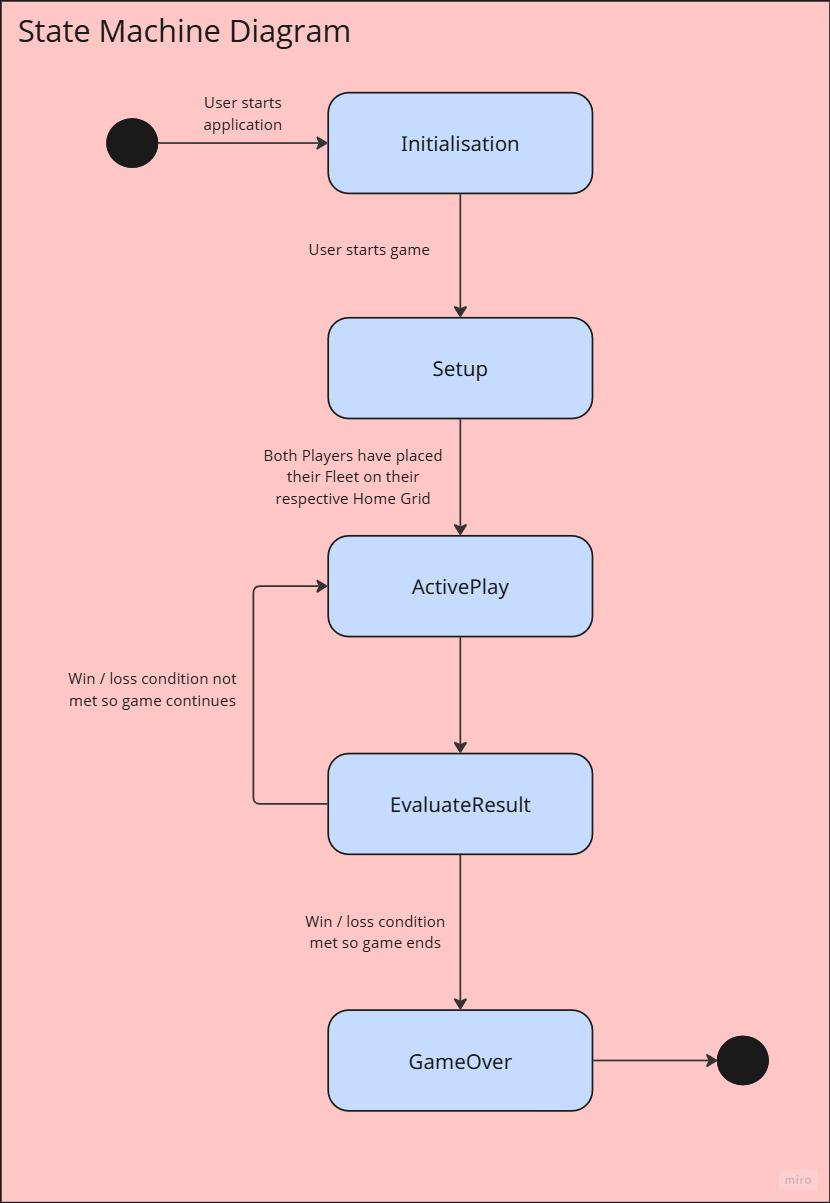
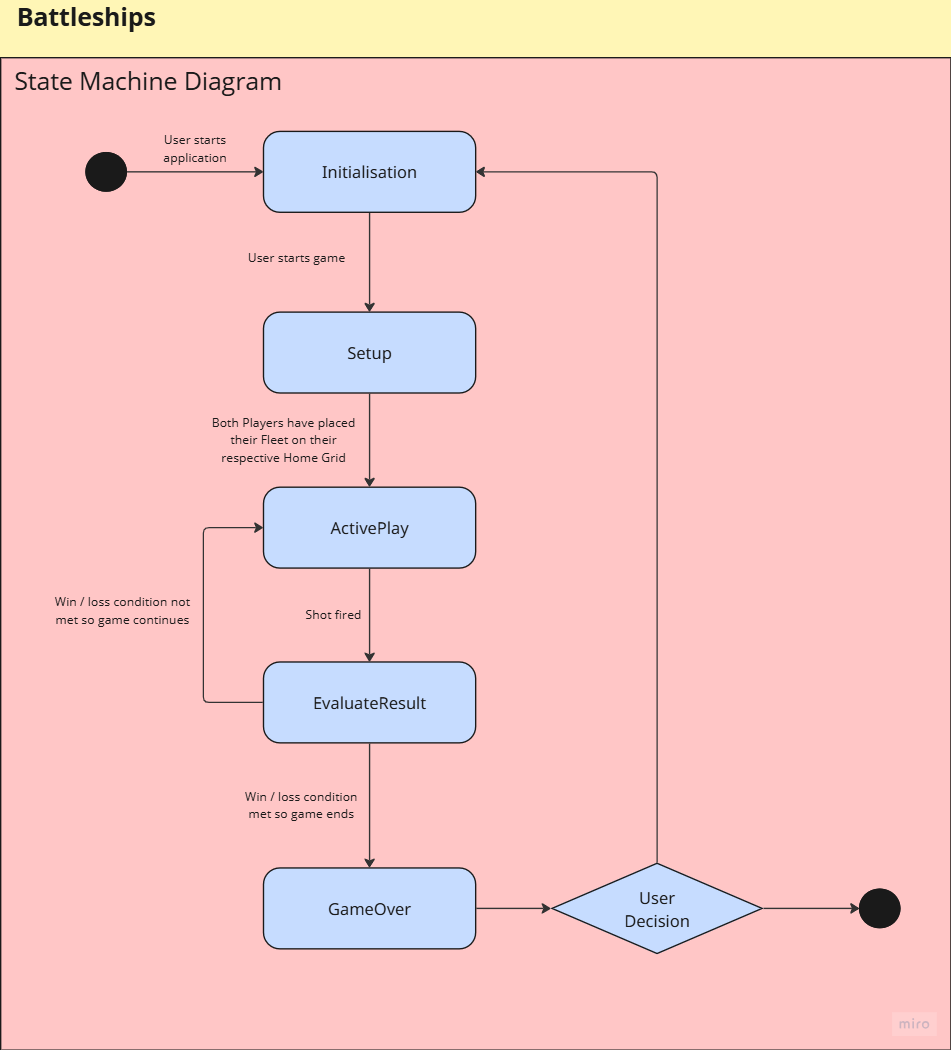
added gameOver layer, with two different outcomes: victory, or defeat. Each one has its own background and title.

diff --git a/pages/battleships_v1.html b/pages/battleships_v1.html
@@ -27,19 +27,28 @@
             <div id="initialisation_container">
                 
                 <div>
+
                     <img src="/assets/images/logos/logo.png" alt="Battleships logo" width="800px">
+
                 </div>
 
                 <div>
+
                     <select id="gameMode" name="gameMode">
+
                         <option value="" disabled selected>Choose Game Mode</option>
+
                         <option value="UvC">User vs Computer</option>
+
                     </select>
                 </div>
 
                 <div>
+
                     <button id="startGameButton">Start Game</button>
+
                 </div>
+
             </div>
             
         </div>
@@ -853,9 +862,49 @@
 
         </div>
 
-        <div id="gameOver" class="layer alignTop" >
-            <h1>GameOver</h1>
-            <button>Reset</button>
+        <div id="gameOver" class="layer alignHorizontalCentre alignVerticalMiddle" >
+            
+            <div id="gameOver_box" class="victory">
+
+                <div id="gameOver_boxBackground">
+
+                    <img src="/assets/images/logos/fleet.png" alt="Fleet" class="fleetImage victoryMarker">
+                    <img src="/assets/images/logos/fleet_destroyed.png" alt="Fleet destroyed" class="fleetImage defeatMarker">
+
+                </div>
+                
+
+                <div id="gameOver_boxForeground">
+
+                    <!-- Row 1 -->
+                    <div class="gameOver_boxForegroundRow1 span4"></div>
+
+                    <!-- Row 2 -->
+                    <div class="gameOver_boxForegroundRow2"></div>
+
+                    <div class="gameOver_boxForegroundRow2 span2">
+
+                        <div id="gameOver_boxForegroundRow2Flex">
+
+                            <img src="/assets/images/logos/victory.png" alt="victory badge" class="badge victoryMarker">
+                            <img src="/assets/images/logos/defeat.png" alt="defeated badge" class="badge defeatMarker">
+                        
+                            <button id="exitButton" class="marginTop">Exit</button>
+                            <button id="playAgainButton" class="marginTop">Play Again</button>
+
+                        </div>
+
+                    </div>
+
+                    <div class="gameOver_boxForegroundRow2"></div>
+
+                    <!-- Row 3 -->
+                    <div class="gameOver_boxForegroundRow3 span4"></div>
+
+                </div>
+
+            </div>
+
         </div>   
 
     </body>

diff --git a/assets/styles/v1/gameOver.css b/assets/styles/v1/gameOver.css
@@ -1,3 +1,75 @@
-#gameOver{
-    color: orange;
+#gameOver_box{
+    position: relative;
+    width: 50vw;
+    height: 70vh;
+    background-color: transparent;
+}
+
+#gameOver_boxBackground{
+    position: absolute;
+    top: 0;
+    left: 0;
+    width: 100%;
+    height: 100%;
+    background-color: transparent;
+    z-index: 1;
+}
+
+#gameOver_boxForeground{
+    position: absolute;
+    top: 0;
+    left: 0;
+    width: 100%;
+    height: 100%;
+    background-color: transparent;
+    z-index: 2;
+    display: grid;
+    grid-template-columns: minmax(0, 2fr) minmax(0, 3fr) minmax(0, 3fr) minmax(0, 2fr);
+    grid-template-rows: minmax(0, 2fr) minmax(0, 8fr) minmax(0, 10fr);
+}
+
+.gameOver_boxForegroundRow1{
+    background-color: transparent;
+}
+
+.gameOver_boxForegroundRow2{
+    background-color: transparent;
+}
+
+#gameOver_boxForegroundRow2Flex{
+    display: flex;
+    flex-wrap: wrap;
+    flex-direction: column;
+    align-items: center;
+    justify-content: left;
+}
+
+.gameOver_boxForegroundRow3{
+    background-color: transparent;
+}
+
+button {
+    padding: 5px;
+    width: 80%;
+}
+
+.badge{
+    display: none;
+    width: 100%;
+}
+
+.fleetImage{
+    display: none;
+    width: 100%;
+    height: 100%;
+}
+
+/* When parent container has the .victory class, show ONLY the victory badge */
+#gameOver_box.victory .victoryMarker {
+  display: block;
+}
+
+/* When parent container has the .defeat class, show ONLY the defeat badge */
+#gameOver_box.defeat .defeatMarker {
+  display: block;
 }

diff --git a/assets/styles/v1/general.css b/assets/styles/v1/general.css
@@ -88,6 +88,12 @@ input[type="text"]{
     justify-content: center;
 }
 
+.alignHorizontalSpaceBetween{
+    display: flex;
+    flex-direction: row;
+    justify-content:space-between;
+}
+
 .alignHorizontalRight{
     display: flex;
     flex-direction: row;
@@ -100,6 +106,10 @@ input[type="text"]{
 
 .span3{
     grid-column: span 3;
+}
+
+.span4{
+    grid-column: span 4;
 }
 
 .span5{

diff --git a/assets/javascript/v1/state.js b/assets/javascript/v1/state.js
@@ -2,4 +2,4 @@
 // Tracks game data and the current phase.
 // Holds the raw variables (player stats, scores, current phase string). It has zero knowledge of HTML elements and zero knowledge of math rules. It only updates and returns data.
 
-export let currentState = "activePlay";
+export let currentState = "gameOver";

diff --git a/assets/styles/v1/initialisation.css b/assets/styles/v1/initialisation.css
@@ -1,6 +1,3 @@
-#initialisation{
-}
-
 #initialisation_container{
     width: 800px;
     display: flexbox;
